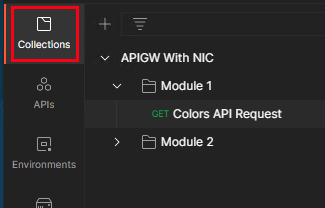
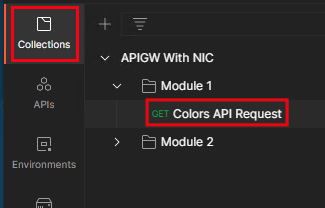
Mod1 Updates

Changed region(s): [[0.4308, 0.4615, 0.8923, 0.6346]]

diff --git a/modules/module1/readme.md b/modules/module1/readme.md
@@ -86,7 +86,7 @@ Switch to the Postman application in the Jumphost.  In the "Collection on the le
 
 Note that we are sending a GET request to the URL `api.example.com/api/v1/colors`.  Send this request by clicking the "Send" button to the right.  
 
-![Get /colors](media/postman-send-get.png)
+![Get /colors](media/postman-get-colors.png)
 
 You should see a 404 response.  The reason for this is that although the api runtimes have been exposed with a service, as shown in Step 3, those are just ClusterIP services that enable internal cluster traffic.  To create the link between the api services and the Postman client outside the cluster you need to configure the NIC to handle that traffic.  Let's do that now.
 
@@ -96,23 +96,26 @@ Switch to the VSCode application in your Jumphost.  In the upper left, navigate 
 
 This is the manifest you will use to configure the NIC to support requests for http://api.example.com.  This manifest creates a VirtualServer resource.  VirtualServer is a "Custom Resource" (CRD) developed by NGINX.  It is one of a number of CRD's that have been developed by NGINX as an alternative to the standard Ingress Resource.  The CRD's provide easier access to the full functionality of the underlying NGINX+ load balancer.  Can you still use the standard Ingress Resource with the NGINX Inc. Ingress Controller?  Yes, in fact, you can deploy both simultaneously, a helpful capability for migrating from Ingress to CRD's.  
 
-Inspect the manifest to get comfortable with the structure of the VirtualServer (VS).  You can read more about the VS in the official NGINX documentation here:  https://docs.nginx.com/nginx-ingress-controller/configuration/virtualserver-and-virtualserverroute-resources/.  
+Inspect the manifest to get comfortable with the structure of the VirtualServer (VS).  You can read more about the VS by following the link in the References section.  
 
 Apply the manifest with the following command:
 
 ```bash
-kubectl apply -f modules/module1/api-runtimes-vs.yaml
+kubectl apply -f module1/api-runtimes-vs.yaml
 ```
 
 Verify that the VS was successfully applied with the following command:
 
 ```bash
-kubectl get vs -n api 
+kubectl get vs -n api apis
 ```
 
 You should see a state of "Valid" in the listing of the "apis" VS.
 
-Now return to Postman to resend the API request to the colors endpoint.  You should now see a 200 response with a JSON response body containing a list colors and associated ID's.  
+Now return to Postman to resend the API request to the colors endpoint.  You should now see a 200 response with a JSON response body containing a list of colors and associated ID's.  
+
+## References:
+[VirtualService Resource Documentation](https://docs.nginx.com/nginx-ingress-controller/configuration/virtualserver-and-virtualserverroute-resources/)
 
 -------------
 
